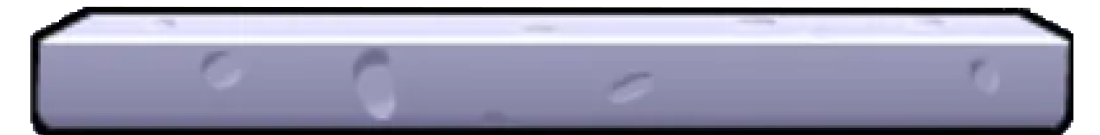
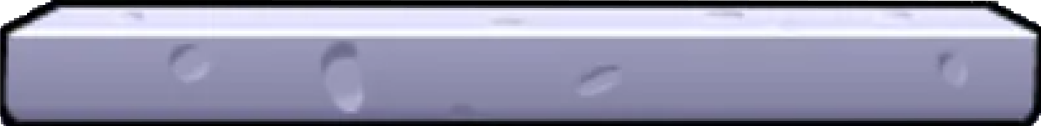
allskonar

diff --git a/Player.js b/Player.js
@@ -60,16 +60,18 @@ Player.prototype.update = function (du){
         this._isJumping = true;
     }
 
-    // if colliding...
-    var floorY = spatialManager.findEntityInRange(this.cx, this.cy, this.width, this.height)
-    if (floorY){
-        // if going down, stop and match height.
-        if(0 < this.velY){
+    if(this.velY < 25){
+        this.velY += 0.8*du;
+    }
+
+    // if falling
+    if(0 < this.velY){
+        var floorY = spatialManager.findEntityInRange(this.cx, this.cy, this.width, this.height)
+        // is colliding?
+        if (floorY){
             this.cy = floorY;
             this.velY = 0;
-        }
-    } else {
-        this.velY += 0.8*du;
+        }    
     }
 
     if(this._isDeadNow){

diff --git a/ICE-E-TOWER.js b/ICE-E-TOWER.js
@@ -30,7 +30,7 @@ function createInitialFloors() {
     });
 
     entityManager.generateFloor({
-        cx:200,
+        cx:500,
         cy:800
     });
 
@@ -147,9 +147,9 @@ var g_images = {};
 function requestPreloads() {
 
     var requiredImages = {
-        floor  : "https://notendur.hi.is/~tht40/icy/images/floor.png",
+        floor  : "images/floor.png",
         player : "images/player.png",
-        wall   : "https://notendur.hi.is/~tht40/icy/images/wall.png"
+        wall   : "images/wall.png"
     };
 
     imagesPreload(requiredImages, g_images, preloadDone);

diff --git a/Floor.js b/Floor.js
@@ -6,7 +6,7 @@ function Floor(descr) {
     this.sprite = g_sprites.floor;
     
     // Set normal drawing scale, and warp state off
-    this._scale = 1;
+    this._scale = 0.4;
 
     this.width = this.sprite.width*this._scale;
     this.height = this.sprite.height*this._scale;

diff --git a/index.html b/index.html
@@ -6,7 +6,7 @@
   </head>
   <body>
 
-	<canvas id="myCanvas" width="700" height="1000"
+	<canvas id="myCanvas" width="1000" height="1000"
 		style="border: 1px solid black;">
 	Sorry, but your browser does not support the HTML5 canvas tag.
 	</canvas>
